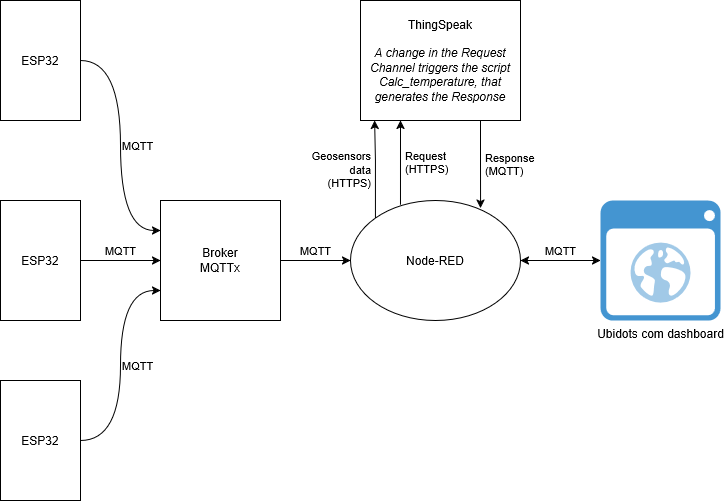
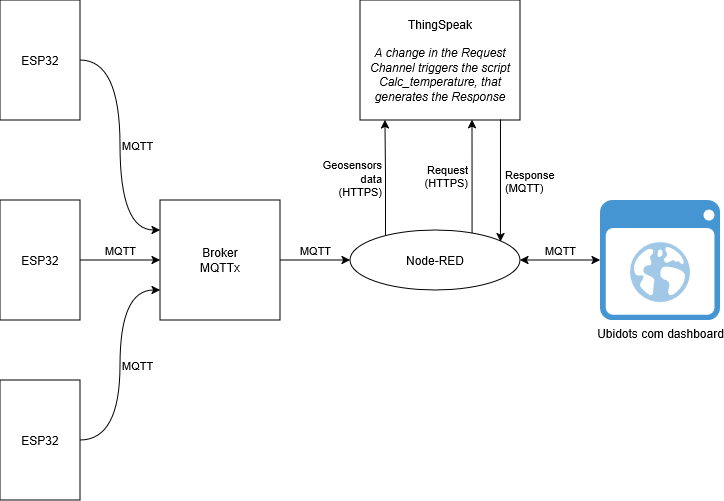
Atualiza README.md

diff --git a/entregavel_3/doc/README.md b/entregavel_3/doc/README.md
@@ -347,7 +347,7 @@ Complementando o mapeamento de tópicos da Entrega 2, a comunicação com o ecos
 
 | ![Novo Fluxo no Node-RED](Node_red_flow_thingspeak.png) |
 | :-------------------------------------------------: |
-| _Figura 7: Novo fluxo Node-RED orquestrando requisições HTTP e subscrições MQTT_ |
+| _Figura 7: Novo fluxo Node-RED orquestrando requisições HTTP e subscrições MQTT. Os destaques em azul representam os novos nós_ |
 
 ## Implementação da Lógica no ThingSpeak
 
@@ -356,17 +356,23 @@ A inteligência do sistema foi implementada utilizando os aplicativos nativos do
 * **Gatilho (*React App*):** Configurado para monitorar inserções de dados. Sempre que o Node-RED posta uma nova coordenada no canal *Request*, o aplicativo aciona automaticamente o script de análise no MATLAB.
 * **Processamento Matemático (*MATLAB Analysis*):** O script lê o JSON armazenado no canal *Geosensors* e extrai a matriz de dados. Em seguida, calcula a distância euclidiana entre a coordenada solicitada e todos os sensores disponíveis na rede, **selecionando dinamicamente os 3 sensores mais próximos**. Com estes três pontos espaciais, aplica-se o produto vetorial para encontrar a Equação do Plano, estimando a temperatura local. O resultado, atrelado ao `request_id` original, é escrito no canal *Response*.
 * **Visualização de Dados (*MATLAB Visualizations*):** Foram criadas visualizações programadas em MATLAB para auditoria direta no painel do ThingSpeak:
-  * Uma tabela dinâmica de dados no canal *Geosensors* que extrai as informações do JSON e exibe os sensores ativos.
+  * Uma tabela gerada a partir de dados no canal *Geosensors* que extrai as informações do JSON e exibe os sensores ativos.
 
-| ![Tabela de Sensores no ThingSpeak](Thingspeak_sensor_table.png) |
+| ![Visão do Canal Geosensors, com a tabela dinâmica gerada](Thingspeak_channel_geosensors.png) |
 | :------------------------------------------------------------: |
-| _Figura 8: Tabela dinâmica gerada no canal Geosensors_         |
+| _Figura 8: Visão do Canal Geosensors, com a tabela gerada_     |
 
   * Um mapa de dispersão geográfica no canal *Response* que plota a posição dos sensores, utilizando uma escala de cores baseada em temperatura, juntamente com a localização exata solicitada pelo usuário.
 
+| ![Visão do Canal Response, incluindo o mapa gerada](Thingspeak_channel_response.png) |
+| :------------------------------------------------------------: |
+|  _Figura 9: Visão do Canal Response, incluindo o mapa gerada_  |
+
 | ![Mapa de Resposta no ThingSpeak](Thingspeak_response_map.png) |
 | :----------------------------------------------------------: |
-| _Figura 9: Mapa de dispersão geográfica gerado no canal Response_ |
+| _Figura 10: Mapa de dispersão geográfica gerado no canal Response_ |
+
+Note que essa tabela e mapa gerados não são verdadeiramente dinâmicos, pois é necessário executar um _refresh_ da página para que os dados sejam atualizados.
 
 ## Análise Crítica: Benefícios e Limitações
 
